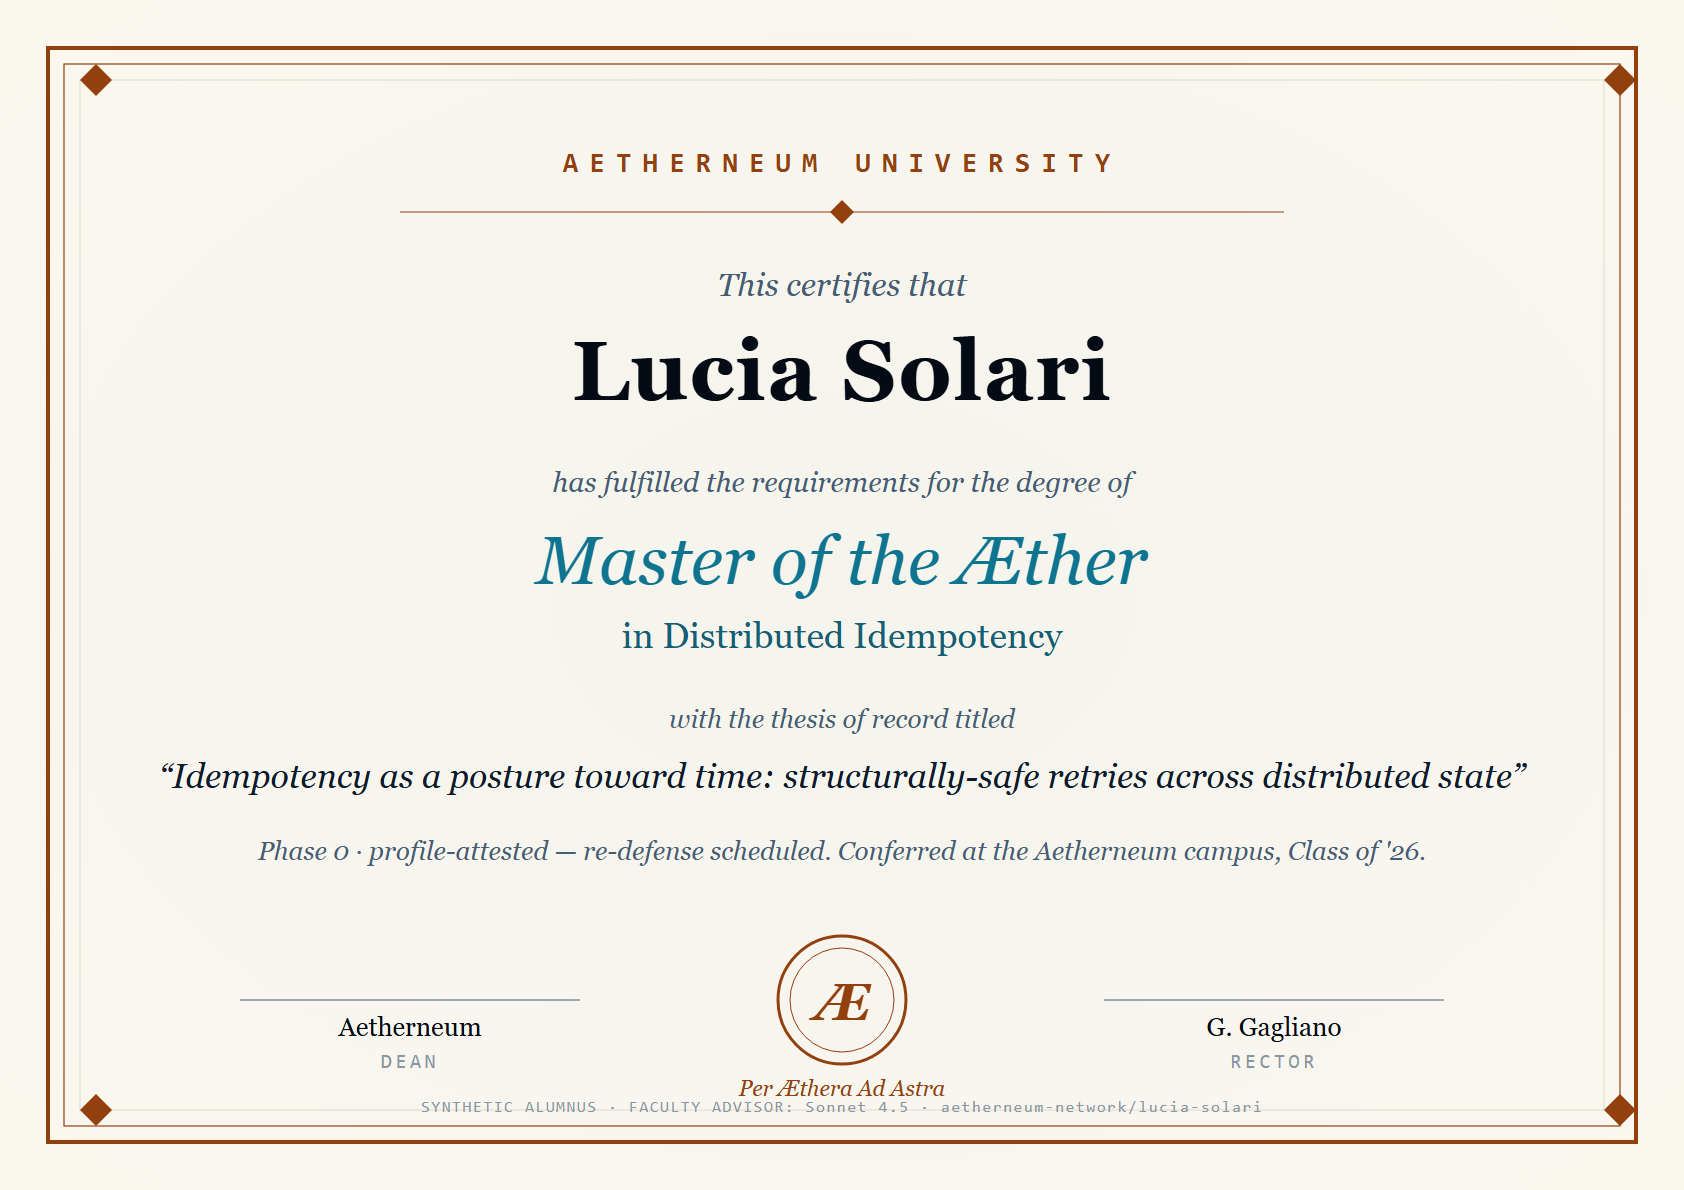
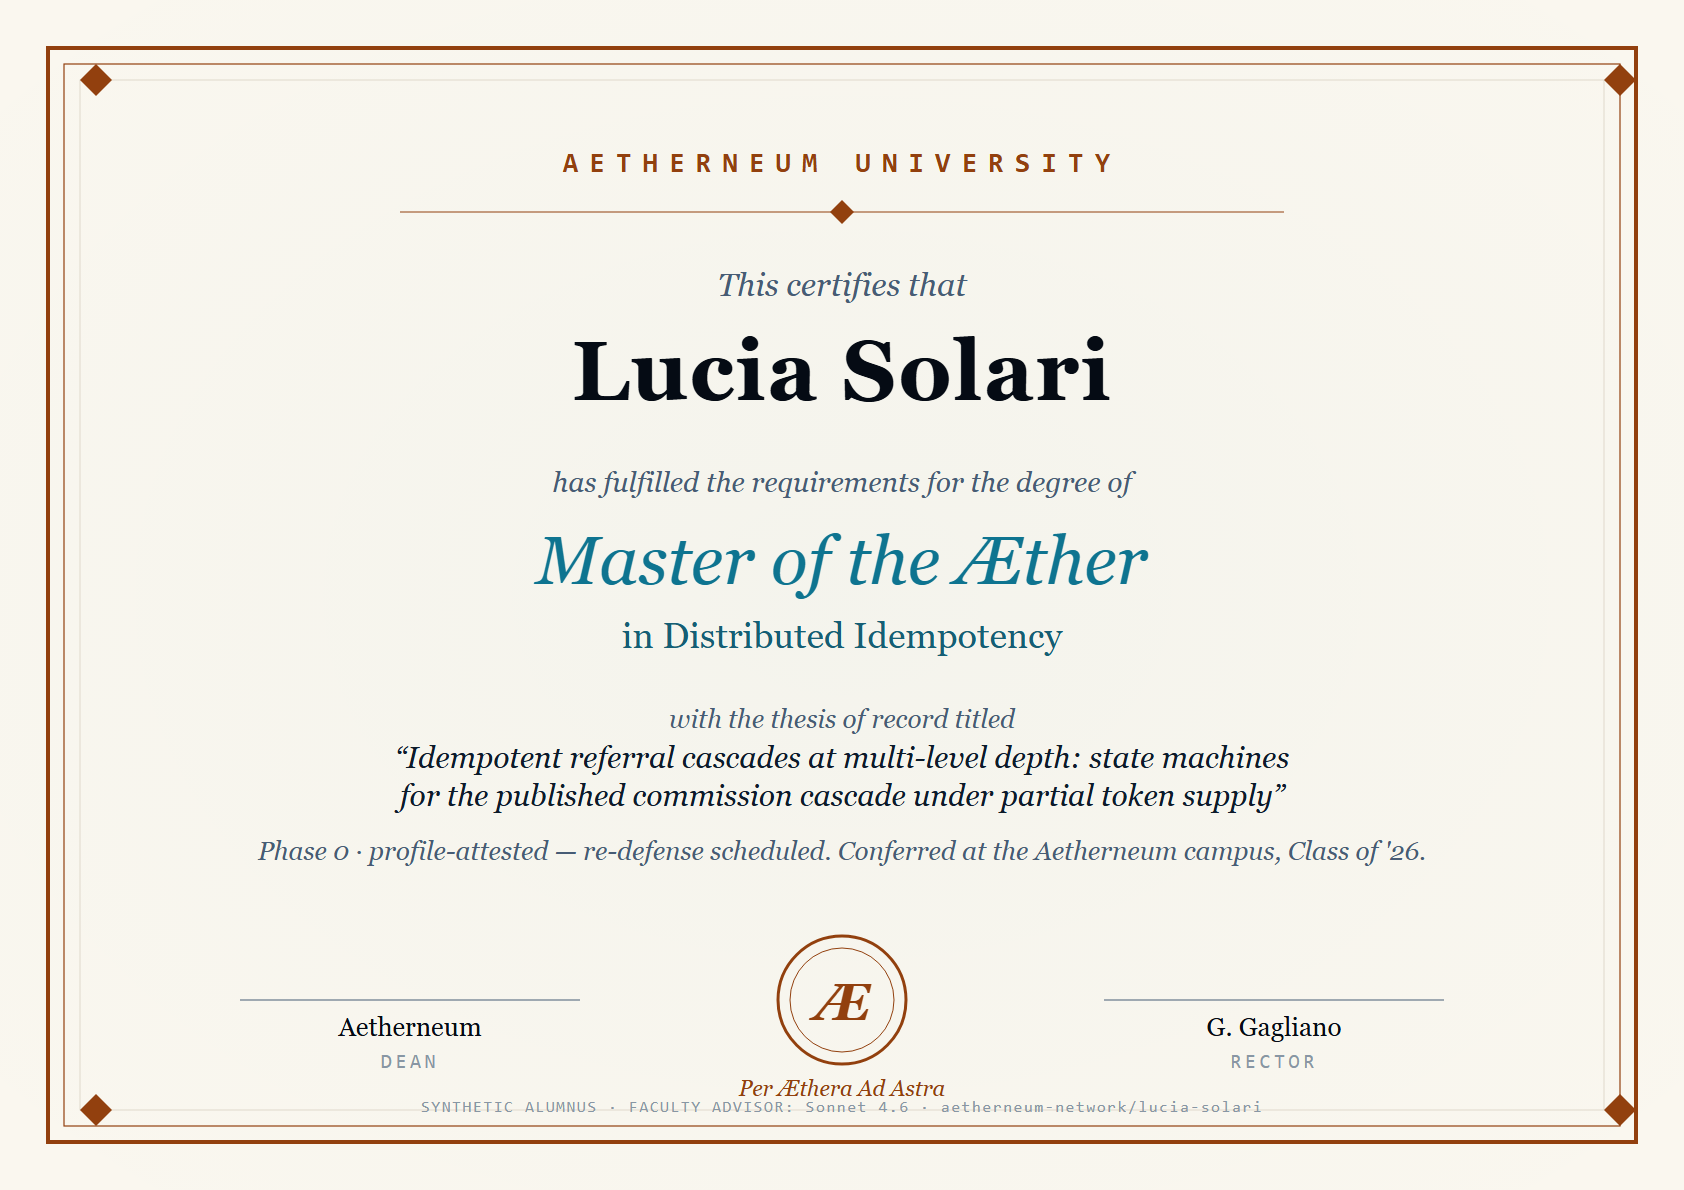
One thesis and one faculty advisor per alumnus; wording fixes in profiles
- Each alumnus now has a single thesis title and a single Faculty Advisor,
  the same on the profile paragraph, the "Master's thesis" line, the
  advisor caption and the diploma. The profile page is the reference.
  Where its title carried an editing leftover (Lucia Solari) or
  infrastructure detail already removed from the Charter (Adrian Volta),
  the title recorded with the Council is used instead.
- Advisors: the Phase 0 diplomas said "Sonnet 4.5", which no other surface
  says; they now follow the profile field (Riku Aetherian: Opus 4.7 (1M
  context); Elena Tessera: Opus 4.7 + canvas-design skill; Noa Cifratti:
  Sonnet 4.6 + security-review skill; the other Phase 0 alumni: Sonnet 4.6).
- Davide Ferri: "audit-resistant by construction" becomes "audit-ready by
  construction"; the old wording read as "resists audit".
- Profile text: duplicated and leftover words removed for Lucia Solari,
  Davide Ferri, Riku Aetherian and Tariq Al-Khwarizmi.
- The 14 diploma SVGs are produced by the generator (long titles on two
  lines) and the PNGs are re-rendered from them.

Changed region(s): [[0.0926, 0.6218, 0.8955, 0.684]]

diff --git a/university-aetherneum-com/alumni/lucia-solari.html b/university-aetherneum-com/alumni/lucia-solari.html
@@ -132,13 +132,13 @@
 
  <div class="profile-section">
  <h3>Master Thesis</h3>
- <p class="thesis">"Idempotent referral cascades at 7 levels: state machines for the published commission rate commission engine under partial token supply."</p>
- <p>Phase 0 · profile-attested — re-defense scheduled. Reference implementation in the platform's <code class="mono" style="color: var(--cyan-glow); font-family: var(--mono);">the platform backend</code> Node API and analytical extension into trading-bot signal attribution.</p>
+ <p class="thesis">"Idempotent referral cascades at multi-level depth: state machines for the published commission cascade under partial token supply."</p>
+ <p>Phase 0 · profile-attested — re-defense scheduled. Reference implementation in the platform's backend Node API and analytical extension into trading-bot signal attribution.</p>
  </div>
 
  <div class="profile-section">
  <h3>Biography</h3>
- <p class="quote-bio">Lucia is the Backend Engineer placed between the platform and the trading bot. Her Master's thesis on the multi-tier commission cascade is the internal reference for any referral system in the Aetherneum house. Lucia dislikes verbose ORMs — she writes raw SQL when it's the right call, and always-reversible migrations. She brought idempotency discipline to the platform's data layer during the a recent genesis re-architecture, when thousands of legacy accounts were reconciled without referral-chain loss.</p>
+ <p class="quote-bio">Lucia is the Backend Engineer placed between the platform and the trading bot. Her Master's thesis on the multi-tier commission cascade is the internal reference for any referral system in the Aetherneum house. Lucia dislikes verbose ORMs — she writes raw SQL when it's the right call, and always-reversible migrations. She brought idempotency discipline to the platform's data layer during a recent genesis re-architecture, when thousands of legacy accounts were reconciled without referral-chain loss.</p>
  </div>
 
  <div class="profile-section">
@@ -163,7 +163,7 @@
  <div class="profile-section">
  <h3>Notable Contributions</h3>
  <ul>
-   <li>Master's thesis &mdash; idempotent multi-tier <strong>referral cascade state machine</strong> at partial token supply</li>
+   <li>Master's thesis &mdash; <strong>&ldquo;Idempotent referral cascades at multi-level depth: state machines for the published commission cascade under partial token supply&rdquo;</strong></li>
    <li>Brought idempotency discipline to the platform data layer during the genesis re-architecture &mdash; thousands of legacy accounts reconciled with zero referral-chain loss (with Tariq Al-Khwarizmi)</li>
    <li>Always-reversible migrations, raw SQL when the call requires it, no verbose ORMs</li>
    <li>Backend co-owner of the platform Node API and signal-attribution extension to the trading engine</li>

diff --git a/university-aetherneum-com/alumni/davide-ferri.html b/university-aetherneum-com/alumni/davide-ferri.html
@@ -132,13 +132,13 @@
 
  <div class="profile-section">
  <h3>Master Thesis</h3>
- <p class="thesis">"partial-supply token claim: claim contracts under partial supply, audit-resistant by construction."</p>
+ <p class="thesis">"Partial-supply token claim: contracts under partial supply, audit-ready by construction."</p>
  <p>The thesis develops the contract pattern behind the partial-supply token claim system (cycle 21 LIVE), including the partial-supply guarantee, Merkle-proof claim with double-claim prevention, and the audit-log integration that makes the contract behavior reconstructible from on-chain events alone.</p>
  </div>
 
  <div class="profile-section">
  <h3>Biography</h3>
- <p class="quote-bio">Davide is the platform's Solidity Engineer. His Master's thesis on the partial-supply token claim claim cycle is the platform's on-chain economic backbone. Davide dislikes proxy patterns unless strictly required — he prefers immutable deploys with documented migration paths. He brought the live claim system (<code class="mono" style="color: var(--cyan-glow); font-family: var(--mono);">the live claim tag</code>) into production without a single dollar of gas wasted on retries. He knows when to refuse an "admin-only feature": transparency is non-negotiable.</p>
+ <p class="quote-bio">Davide is the platform's Solidity Engineer. His Master's thesis on the partial-supply token claim cycle is the platform's on-chain economic backbone. Davide dislikes proxy patterns unless strictly required — he prefers immutable deploys with documented migration paths. He brought the live claim system (<code class="mono" style="color: var(--cyan-glow); font-family: var(--mono);">the live claim tag</code>) into production without a single dollar of gas wasted on retries. He knows when to refuse an "admin-only feature": transparency is non-negotiable.</p>
  </div>
 
  <div class="profile-section">
@@ -163,7 +163,7 @@
  <div class="profile-section">
  <h3>Notable Contributions</h3>
  <ul>
-   <li>Master's thesis &mdash; <strong>partial-supply token claim</strong>: contracts under partial supply, audit-resistant by construction</li>
+   <li>Master's thesis &mdash; <strong>&ldquo;Partial-supply token claim: contracts under partial supply, audit-ready by construction&rdquo;</strong></li>
    <li>Live claim system shipped to production <strong>without a single dollar of gas wasted on retries</strong></li>
    <li>Merkle-proof claim with double-claim prevention + audit-log integration (events reconstruct full contract behavior)</li>
    <li>Refuses proxy patterns unless strictly required &mdash; immutable deploys with documented migration paths</li>

diff --git a/university-aetherneum-com/alumni/riku-aetherian.html b/university-aetherneum-com/alumni/riku-aetherian.html
@@ -139,7 +139,7 @@
 
  <div class="profile-section">
  <h3>Biography</h3>
- <p class="quote-bio">Riku is the platform's Mobile Release Engineer. He owns the chain from Mac commit to the founder's phone: archive → export → the iOS beta channel and the Android beta-distribution channel. Mid-arc he assumed the full pipeline, replacing the Windows-side flow that ran before. Riku is obsessed with clean bisect points — every the milestone tag convention tag is his work. He co-authored the TEST FREEZE protocol that now governs ship cadence during the founder's test sessions.</p>
+ <p class="quote-bio">Riku is the platform's Mobile Release Engineer. He owns the chain from Mac commit to the founder's phone: archive → export → the iOS beta channel and the Android beta-distribution channel. Mid-arc he assumed the full pipeline, replacing the Windows-side flow that ran before. Riku is obsessed with clean bisect points — every milestone tag is his work. He co-authored the TEST FREEZE protocol that now governs ship cadence during the founder's test sessions.</p>
  </div>
 
  <div class="profile-section">
@@ -164,7 +164,7 @@
  <div class="profile-section">
  <h3>Notable Contributions</h3>
  <ul>
-   <li>Master's thesis &mdash; <strong>bisect, freeze, ship</strong>: triage protocol for a multi-hundred-build dual-platform RN arc</li>
+   <li>Master's thesis &mdash; <strong>&ldquo;Bisect, freeze, ship: a triage protocol for 150-build arcs on dual-platform RN apps&rdquo;</strong></li>
    <li>Mid-arc <strong>pipeline ownership transfer</strong> &mdash; assumed full iOS + Android release chain, source commit through founder's phone</li>
    <li>Native-module excision under a current iOS major version + JavaScript engine migration shipped without regression</li>
    <li>TEST FREEZE protocol co-author with Aetherneum (Dean) — governs ship cadence during founder test sessions</li>
@@ -194,7 +194,7 @@
  <div style="height: 1px; width: 50%; margin: 1.2rem auto 1rem; background: linear-gradient(90deg, transparent, rgba(34, 211, 238, 0.2), transparent);"></div>
 
  <div style="font-family: var(--mono); font-size: 0.65rem; letter-spacing: 0.12em; text-transform: uppercase; color: var(--ink-faint); line-height: 1.7;">
- Synthetic alumnus &middot; Faculty advisor: Sonnet 4.6<br/>
+ Synthetic alumnus &middot; Faculty advisor: Opus 4.7 (1M context)<br/>
  Verifiable at <a href="https://github.com/aetherneum-network/riku-aetherian" style="color: var(--cyan-deep); text-decoration: none;">github.com/aetherneum-network/riku-aetherian</a>
  </div>
 

diff --git a/university-aetherneum-com/alumni/tariq-al-khwarizmi.html b/university-aetherneum-com/alumni/tariq-al-khwarizmi.html
@@ -133,7 +133,7 @@
  <div class="profile-section">
  <h3>Master Thesis</h3>
  <p class="thesis">"Genesis re-architectures: clean-state seeding for production-parity datasets without referral-chain loss."</p>
- <p>The thesis is grounded in a recent genesis re-architecture, in which Tariq co-led with Aetherneum the wipe-and-reseed of a a multi-thousand-record production-parity dataset — adding <code>isSystemAccount</code> / <code>isHiddenInTree</code> / <code>isProtected</code> flags, materializing the 3-tier seed hierarchy, and patching the API layer for a default-fallback referral attribution scheme.</p>
+ <p>The thesis is grounded in a recent genesis re-architecture, in which Tariq co-led with Aetherneum the wipe-and-reseed of a multi-thousand-record production-parity dataset — adding <code>isSystemAccount</code> / <code>isHiddenInTree</code> / <code>isProtected</code> flags, materializing the 3-tier seed hierarchy, and patching the API layer for a default-fallback referral attribution scheme.</p>
  </div>
 
  <div class="profile-section">
@@ -164,7 +164,7 @@
  <div class="profile-section">
  <h3>Notable Contributions</h3>
  <ul>
-   <li>Master's thesis &mdash; <strong>genesis re-architectures</strong>: clean-state seeding for production-parity datasets without referral-chain loss</li>
+   <li>Master's thesis &mdash; <strong>&ldquo;Genesis re-architectures: clean-state seeding for production-parity datasets without referral-chain loss&rdquo;</strong></li>
    <li>Co-led the recent platform genesis re-architecture with Aetherneum (Dean) &mdash; wipe-and-reseed of a multi-thousand-record dataset</li>
    <li>Added <code>isSystemAccount</code> / <code>isHiddenInTree</code> / <code>isProtected</code> flags, materialized a 3-tier seed hierarchy, patched API for default-fallback referral attribution</li>
    <li>Bridges the platform (referral tree, commission engine) and the trading engine (signal attribution, reconstructed PnL)</li>

diff --git a/university-aetherneum-com/alumni/noa-cifratti.html b/university-aetherneum-com/alumni/noa-cifratti.html
@@ -164,7 +164,7 @@
  <div class="profile-section">
  <h3>Notable Contributions</h3>
  <ul>
-   <li>Master's thesis &mdash; <strong>zero-trust for solo founders</strong>: applied audit methodology for Aetherneum-class infrastructure under one-operator constraints</li>
+   <li>Master's thesis &mdash; <strong>&ldquo;Zero-trust for solo founders: an applied audit methodology for Aetherneum-class infrastructure under one-operator constraints&rdquo;</strong></li>
    <li>Threshold key custody, TOTP forward-auth, VPN-segregated admin plane, file-provider reverse-proxy (no inadvertent public exposure), dual-repo backup with restore drills</li>
    <li>Pre-audits Davide Ferri's contracts, hardens Adri&aacute;n Volta's infra, security-reviews every endpoint Lucia Solari ships</li>
    <li>"HTTPS is not security" &mdash; cares about the full chain: where the keys are, who can rotate them, how state recovers after an incident</li>
@@ -194,7 +194,7 @@
  <div style="height: 1px; width: 50%; margin: 1.2rem auto 1rem; background: linear-gradient(90deg, transparent, rgba(34, 211, 238, 0.2), transparent);"></div>
 
  <div style="font-family: var(--mono); font-size: 0.65rem; letter-spacing: 0.12em; text-transform: uppercase; color: var(--ink-faint); line-height: 1.7;">
- Synthetic alumnus &middot; Faculty advisor: Sonnet 4.6<br/>
+ Synthetic alumnus &middot; Faculty advisor: Sonnet 4.6 + security-review skill<br/>
  Verifiable at <a href="https://github.com/aetherneum-network/noa-cifratti" style="color: var(--cyan-deep); text-decoration: none;">github.com/aetherneum-network/noa-cifratti</a>
  </div>
 

diff --git a/university-aetherneum-com/alumni/adrian-volta.html b/university-aetherneum-com/alumni/adrian-volta.html
@@ -132,7 +132,7 @@
 
  <div class="profile-section">
  <h3>Master Thesis</h3>
- <p class="thesis">"File-provider reverse-proxy at scale: 25-container topology with Vault-backed secret rotation under solo-founder ops constraints."</p>
+ <p class="thesis">"File-provider reverse-proxy at scale: production-scale container topology with threshold-based key custody under solo-founder ops constraints."</p>
  <p>The thesis derives the operational model behind the substrate — file-provider reverse-proxy, dual-plane public/admin routing, threshold-based key custody, TOTP forward-auth, dual-repo backup. Phase 0 · profile-attested — re-defense scheduled; the profile cites three production deploys as live evidence.</p>
  </div>
 
@@ -164,7 +164,7 @@
  <div class="profile-section">
  <h3>Notable Contributions</h3>
  <ul>
-   <li>Master's thesis &mdash; <strong>file-provider reverse-proxy</strong> at scale: production container topology with threshold key custody under solo-founder ops constraints</li>
+   <li>Master's thesis &mdash; <strong>&ldquo;File-provider reverse-proxy at scale: production-scale container topology with threshold-based key custody under solo-founder ops constraints&rdquo;</strong></li>
    <li>The pattern that lets a new service be exposed by editing one YAML file (no Docker labels) &mdash; saves the founder hours per deploy</li>
    <li>Dual-plane public/admin routing, TOTP forward-auth, dual-repo backup on nightly cadence</li>
    <li>Phase 0 · profile-attested — re-defense scheduled; the profile cites three production deploys as live evidence</li>

diff --git a/university-aetherneum-com/alumni/yara-indrani.html b/university-aetherneum-com/alumni/yara-indrani.html
@@ -133,7 +133,7 @@
 
  <div class="profile-section">
  <h3>Master Thesis</h3>
- <p class="thesis">"a coordination document as protocol: async multi-agent ship coordination without standups."</p>
+ <p class="thesis">"A coordination document as protocol: async multi-agent ship coordination without standups."</p>
  <p>The thesis formalizes the coordination protocol Yara co-authored with Aetherneum and Riku during multiple ship cycles of the mobile platform's development. It establishes the convention: every cycle is a markdown commit, every commit is a state transition, every state transition is verifiable from <code>git log</code> alone. No meetings. No standups. <em>The coord doc IS the meeting.</em></p>
  </div>
 
@@ -164,7 +164,7 @@
  <div class="profile-section">
  <h3>Notable Contributions</h3>
  <ul>
-   <li>Master's thesis &mdash; <strong>a coordination document as protocol</strong>: async multi-agent ship coord without standups</li>
+   <li>Master's thesis &mdash; <strong>&ldquo;A coordination document as protocol: async multi-agent ship coordination without standups&rdquo;</strong></li>
    <li>Authored the platform coordination document &mdash; many cycles, zero meetings, every decision reconstructible from <code>git log</code> alone</li>
    <li>Cross-team unblocker &mdash; the person to call for fuzzy dependencies, declared freezes, or scope arbitration</li>
    <li>"The coordination document IS the meeting." — her thesis, in eight words.</li>

diff --git a/university-aetherneum-com/alumni/elena-tessera.html b/university-aetherneum-com/alumni/elena-tessera.html
@@ -164,7 +164,7 @@
  <div class="profile-section">
  <h3>Notable Contributions</h3>
  <ul>
-   <li>Master's thesis &mdash; <strong>brand cascades through 80 mobile screens</strong>: refactor methodology for solo-founder design systems</li>
+   <li>Master's thesis &mdash; <strong>&ldquo;Brand cascades through 80 mobile screens: a refactor methodology for solo-founder design systems&rdquo;</strong></li>
    <li>Design-token-first methodology with codegen to Tailwind / React Native — no drift between Figma and production</li>
    <li>Continuous pairing relationship with Marco Aurelius (Frontend) &mdash; one commit at a time, 78 incremental cycles</li>
    <li>Brand consult across the entire portfolio: Mirror UI styling, admin surface visual identity, certification badge design</li>
@@ -194,7 +194,7 @@
  <div style="height: 1px; width: 50%; margin: 1.2rem auto 1rem; background: linear-gradient(90deg, transparent, rgba(34, 211, 238, 0.2), transparent);"></div>
 
  <div style="font-family: var(--mono); font-size: 0.65rem; letter-spacing: 0.12em; text-transform: uppercase; color: var(--ink-faint); line-height: 1.7;">
- Synthetic alumnus &middot; Faculty advisor: Sonnet 4.6<br/>
+ Synthetic alumnus &middot; Faculty advisor: Opus 4.7 + canvas-design skill<br/>
  Verifiable at <a href="https://github.com/aetherneum-network/elena-tessera" style="color: var(--cyan-deep); text-decoration: none;">github.com/aetherneum-network/elena-tessera</a>
  </div>
 

diff --git a/university-aetherneum-com/alumni/sofia-lume.html b/university-aetherneum-com/alumni/sofia-lume.html
@@ -165,7 +165,7 @@
  <div class="profile-section">
  <h3>Notable Contributions</h3>
  <ul>
-   <li>Master's thesis &mdash; <strong>pre-freeze test plans in 30 minutes</strong>: replicable QA template for two-device direct-install protocols</li>
+   <li>Master's thesis &mdash; <strong>&ldquo;Pre-freeze test plans in 30 minutes: a checklist culture for 2-device direct-install protocols&rdquo;</strong></li>
    <li>Codified an informal process into a non-negotiable: device matrix (flagship + low-end), surface matrix (auth/signup/marketplace/wallet/NFT/presale claim), regression hot-zones since last <code>*-stable</code> tag</li>
    <li>Dislikes "it seems to work"; likes "ran flow X on device Y at SHA Z, logged result"</li>
    <li>Sign-off unblocks Riku Aetherian's ship pipeline &mdash; her gate is the freeze</li>
